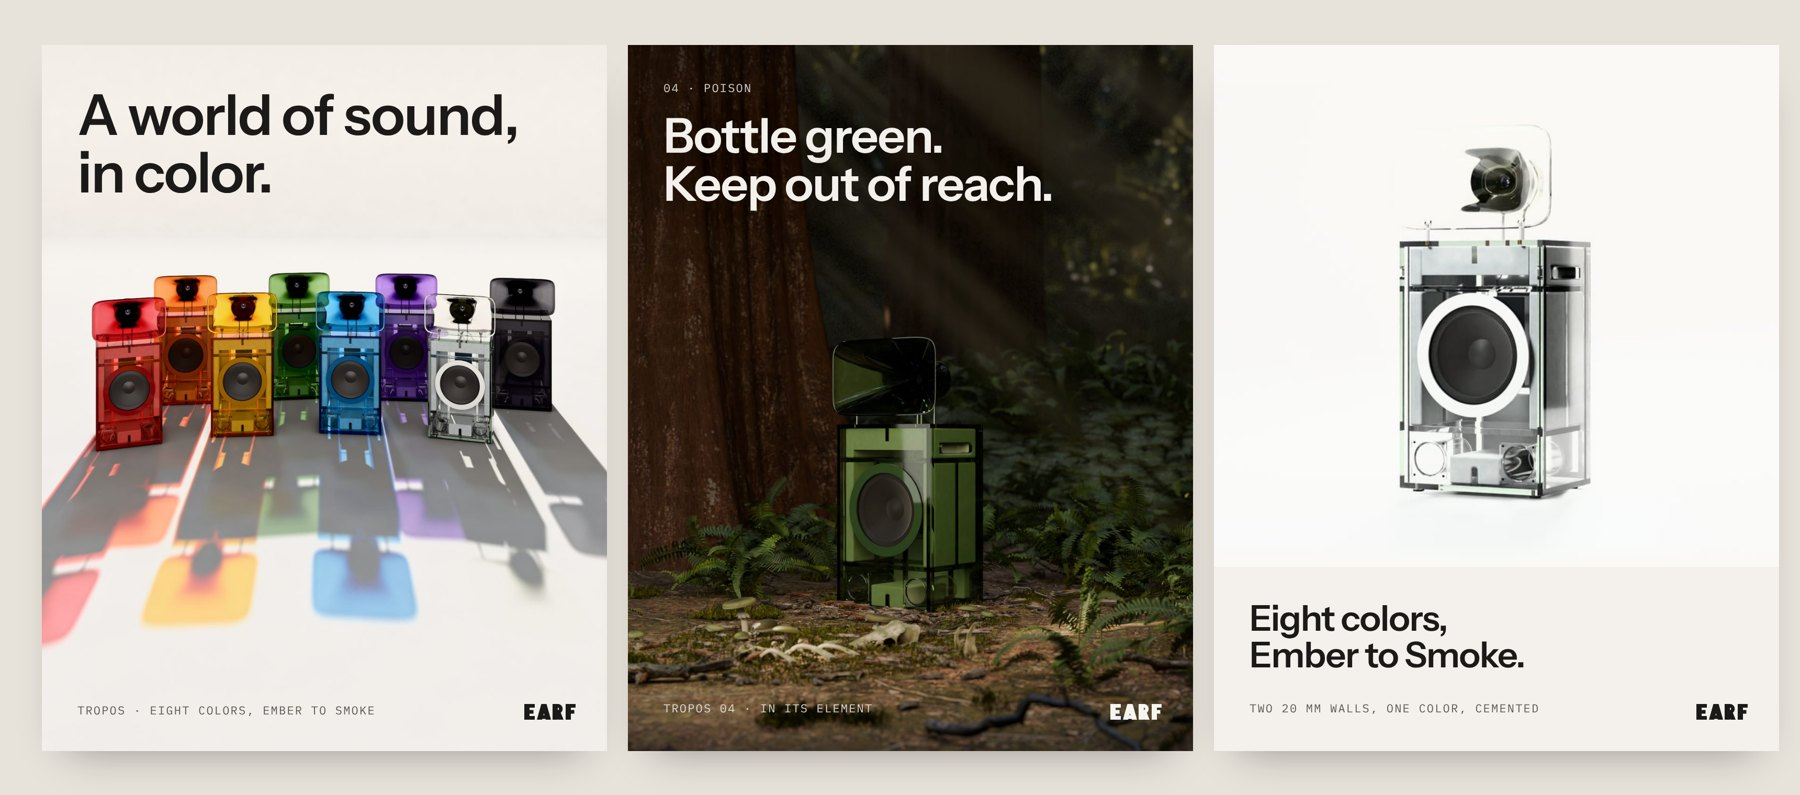
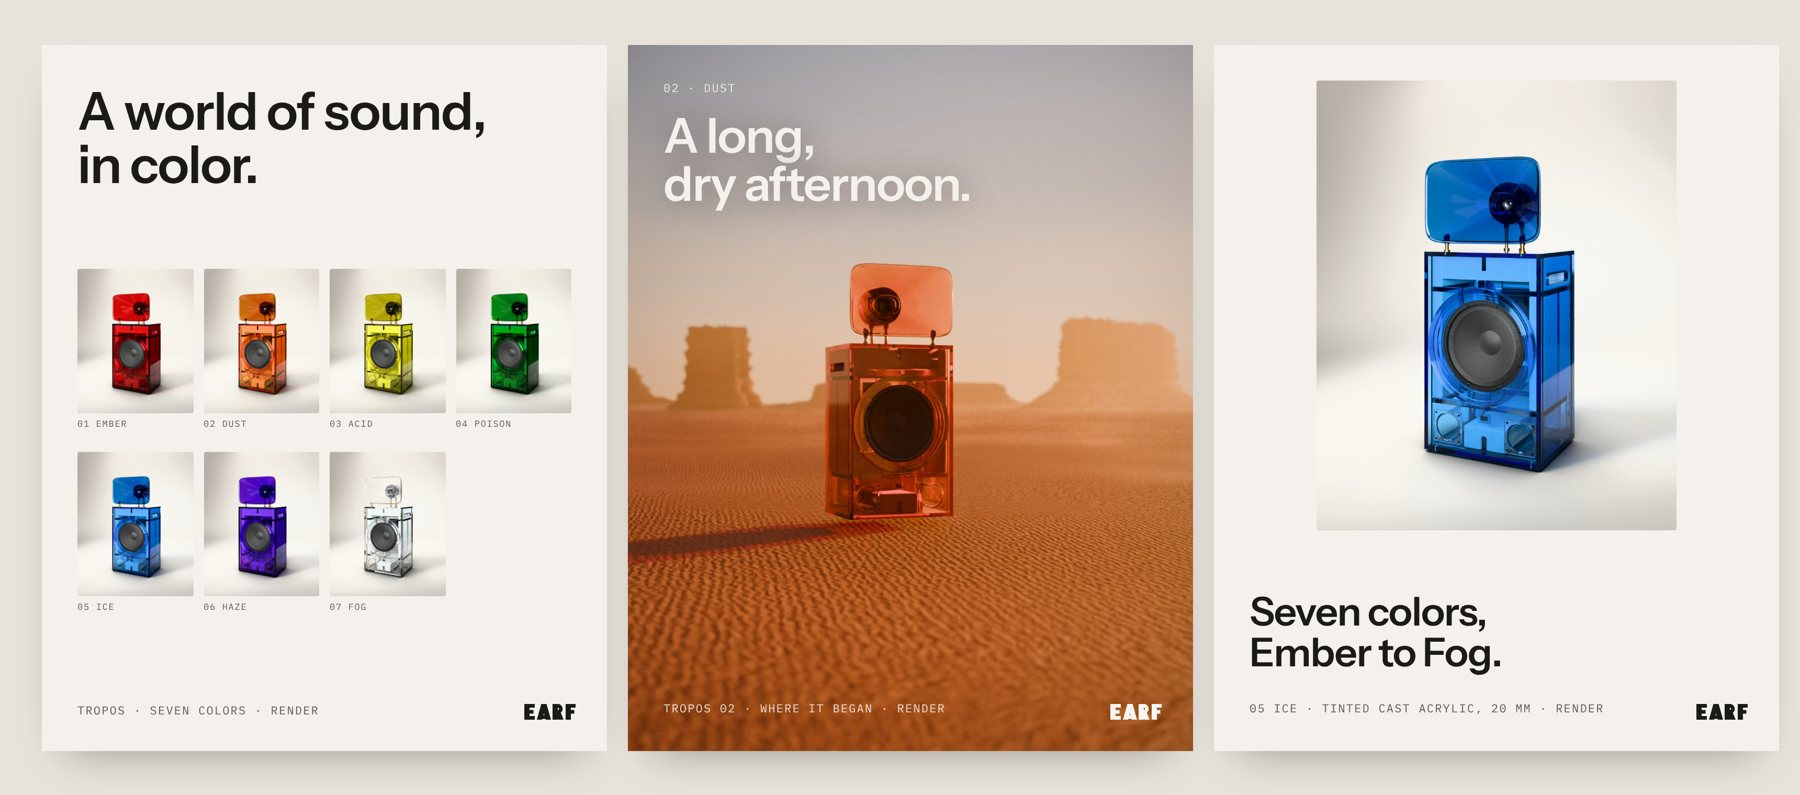
Social posts set again with passed pictures: the seven fronts, Dust in the desert, Ice whole
Claude-Session: https://claude.ai/code/session_01BAaPTm6ZnW6Wr5zqpr5BWJ

diff --git a/spinoffs/barkhorn/brandbook/scenes/social.html b/spinoffs/barkhorn/brandbook/scenes/social.html
@@ -1,42 +1,44 @@
 <!doctype html><meta charset="utf-8"><link rel="stylesheet" href="base.css">
 <style>
-/* three posts at 4:5 (1080 x 1350 at 2x), side by side as a feed shows them; one picture, one line, the mark small */
+/* three posts at 4:5 (1080 x 1350 at 2x), side by side as a feed shows them; one picture, one line, the mark small.
+   Pictures: only renders that passed the critics (the seven tall fronts, rollout A-polished-fix1; the Dust habitat, biomes 26493989). Tropos always whole. */
 body { width: 1720px; height: 760px; background: #E7E2DA; display: flex; gap: 20px; padding: 40px; align-items: center }
 .post { position: relative; width: 540px; height: 675px; overflow: hidden; flex: none; background: #F4F1EC; box-shadow: 0 20px 40px -24px rgba(0,0,0,.4) }
-.post img.bg { position: absolute; inset: 0; width: 100%; height: 100%; object-fit: cover }
 .post .t { position: absolute; left: 34px; right: 34px; font-weight: 600; letter-spacing: -.02em; line-height: 1.02 }
 .post .m { position: absolute; font-family: var(--mono); font-size: 11px; letter-spacing: .1em; text-transform: uppercase }
 .post .w { position: absolute; right: 30px; bottom: 30px; height: 15px }
-/* 1: the eight */
-.p1 .bg { object-position: 50% 50% }
-.p1 .t { top: 40px; font-size: 54px; color: var(--ink) }
+/* 1: the seven, each its own studio render */
+.p1 .t { top: 38px; font-size: 50px; color: var(--ink) }
+.p1 .grid { position: absolute; left: 34px; right: 34px; top: 214px; display: grid; grid-template-columns: repeat(4, 1fr); gap: 22px 10px }
+.p1 figure { margin: 0 }
+.p1 figure img { width: 100%; aspect-ratio: 4/5; object-fit: cover; display: block; border-radius: 2px }
+.p1 figcaption { font-family: var(--mono); font-size: 8.5px; letter-spacing: .1em; text-transform: uppercase; color: var(--muted); margin-top: 4px }
 .p1 .m { left: 34px; bottom: 32px; color: var(--muted) }
-/* 2: Poison where it began */
+/* 2: Dust where it began */
+.p2 img.bg { position: absolute; inset: 0; width: 100%; height: 100%; object-fit: cover }
 .p2 .t { top: 64px; font-size: 46px; color: #F4F1EC; text-shadow: 0 1px 30px rgba(0,0,0,.35) }
-.p2 .m { left: 34px; top: 34px; color: rgba(244,241,236,.85) }
+.p2 .m { left: 34px; top: 34px; color: rgba(244,241,236,.9) }
 .p2 .m.b { top: auto; bottom: 34px }
-.p2::after { content: ''; position: absolute; inset: 0; background: linear-gradient(180deg, rgba(0,0,0,.5), rgba(0,0,0,0) 32%, rgba(0,0,0,0) 75%, rgba(0,0,0,.45)) }
+.p2::after { content: ''; position: absolute; inset: 0; background: linear-gradient(180deg, rgba(0,0,0,.42), rgba(0,0,0,0) 30%, rgba(0,0,0,0) 78%, rgba(0,0,0,.35)) }
 .p2 > * { z-index: 1 }
-/* 3: the material, close */
-.p3 { background: #F4F1EC }
-.post.p3 img.bg { height: 74%; bottom: auto }
-.p3 .t { top: auto; bottom: 74px; font-size: 34px; color: var(--ink) }
+/* 3: one speaker, whole, framed on paper */
+.p3 img.f { position: absolute; left: 50%; top: 34px; height: 430px; aspect-ratio: 4/5; transform: translateX(-50%); object-fit: cover; border-radius: 2px }
+.p3 .t { bottom: 74px; font-size: 38px; color: var(--ink) }
 .p3 .m { left: 34px; bottom: 34px; color: var(--muted) }
-.sw { position: absolute; left: 34px; top: 34px; display: flex; gap: 6px }
-.sw i { width: 18px; height: 18px; border-radius: 50% }
 </style>
 <body data-w="1720" data-h="760">
-<div class="post p1"><img class="bg" src="../../site/img/hero-portrait.jpg" alt="">
+<div class="post p1">
   <div class="t">A world of sound,<br>in color.</div>
-  <div class="m">Tropos · eight colors, Ember to Smoke</div>
+  <div class="grid"><figure><img src="../book/img/honest-front-ember.jpg" alt=""><figcaption>01 Ember</figcaption></figure><figure><img src="../book/img/honest-front-dust.jpg" alt=""><figcaption>02 Dust</figcaption></figure><figure><img src="../book/img/honest-front-acid.jpg" alt=""><figcaption>03 Acid</figcaption></figure><figure><img src="../book/img/honest-front-poison.jpg" alt=""><figcaption>04 Poison</figcaption></figure><figure><img src="../book/img/honest-front-ice.jpg" alt=""><figcaption>05 Ice</figcaption></figure><figure><img src="../book/img/honest-front-haze.jpg" alt=""><figcaption>06 Haze</figcaption></figure><figure><img src="../book/img/honest-front-fog.jpg" alt=""><figcaption>07 Fog</figcaption></figure></div>
+  <div class="m">Tropos · seven colors · Render</div>
   <img class="w" src="../../brand/mark/earf-wordmark-black.svg" alt=""></div>
-<div class="post p2"><img class="bg" src="../../site/img/green-habitat-portrait.jpg" alt="">
-  <div class="m">04 · Poison</div>
-  <div class="t">Bottle green.<br>Keep out of reach.</div>
-  <div class="m b">Tropos 04 · in its element</div>
+<div class="post p2"><img class="bg" src="../book/img/honest-dust-habitat.jpg" alt="">
+  <div class="m">02 · Dust</div>
+  <div class="t">A long,<br>dry afternoon.</div>
+  <div class="m b">Tropos 02 · where it began · Render</div>
   <img class="w" src="../../brand/mark/earf-wordmark-white.svg" alt=""></div>
-<div class="post p3"><img class="bg" src="../book/img/ice-studio-light.jpg" alt="">
-  <div class="t">Eight colors,<br>Ember to Smoke.</div>
-  <div class="m">Two 20 mm walls, one color, cemented</div>
+<div class="post p3"><img class="f" src="../book/img/honest-front-ice.jpg" alt="">
+  <div class="t">Seven colors,<br>Ember to Fog.</div>
+  <div class="m">05 Ice · tinted cast acrylic, 20 mm · Render</div>
   <img class="w" src="../../brand/mark/earf-wordmark-black.svg" alt=""></div>
 </body>

diff --git a/spinoffs/barkhorn/brandbook/book/index.html b/spinoffs/barkhorn/brandbook/book/index.html
@@ -481,7 +481,7 @@ footer p { max-width: 76ch }
     <div class="app"><figure><img src="img/plate.jpg" alt="The rating plate: black anodized aluminum on red acrylic, laser-marked with EARF, Tropos, model, serial, ratings and marks" loading="lazy" width="1800" height="1125"></figure>
       <div class="txt"><h3>The rating plate</h3><p>The one place the brand is required by law, so it is the most carefully set. Black anodized aluminum, laser-marked white, two black pan heads, beside the amplifier on the back of every Tropos, in the cabinet's own color.</p>
         <dl><dt>Size</dt><dd>70 × 40 × 1 mm (the part in product.py)</dd><dt>Type</dt><dd>The wordmark, then Plex Mono</dd><dt>Ratings</dt><dd>As on the FA122's own plate</dd><dt>Marks</dt><dd>Drawn where they go; added only once tested</dd></dl></div></div>
-    <div class="app"><figure><div class="gap" role="img" aria-label="Pending: The three posts, set again with new pictures" style="--ar:16/10"><span class="g1">Pending</span><b>The three posts, set again with new pictures</b><span class="g2">A new render goes here when it passes the critics.</span></div></figure>
+    <div class="app"><figure><img src="img/social.jpg" alt="Three social posts: the seven Tropos in a grid under A world of sound, in color; Tropos in Dust in the desert with A long, dry afternoon; Tropos in Ice, whole and cover off, with Seven colors, Ember to Fog" loading="lazy" width="1800" height="795"></figure>
       <div class="txt"><h3>Social posts</h3><p>One picture, one line, the wordmark small in a corner. The line is always the site's, never a caption written for the feed. Three kinds rotate: the seven, a tint in its element, the material up close.</p>
         <dl><dt>Format</dt><dd>4:5, 1080 × 1350</dd><dt>Line</dt><dd>Instrument Sans 600, top-left or over sky</dd><dt>Label</dt><dd>Plex Mono, the tint's number and name</dd><dt>Never</dt><dd>Stickers, emoji, countdowns</dd></dl></div></div>
     <div class="app"><figure><img src="img/stationery.jpg" alt="A letterhead with the wordmark and the eight tints along its foot, an envelope, a black care card reading Care for cast acrylic, and a cotton tote printed with the globe" loading="lazy" width="1800" height="1125"></figure>
